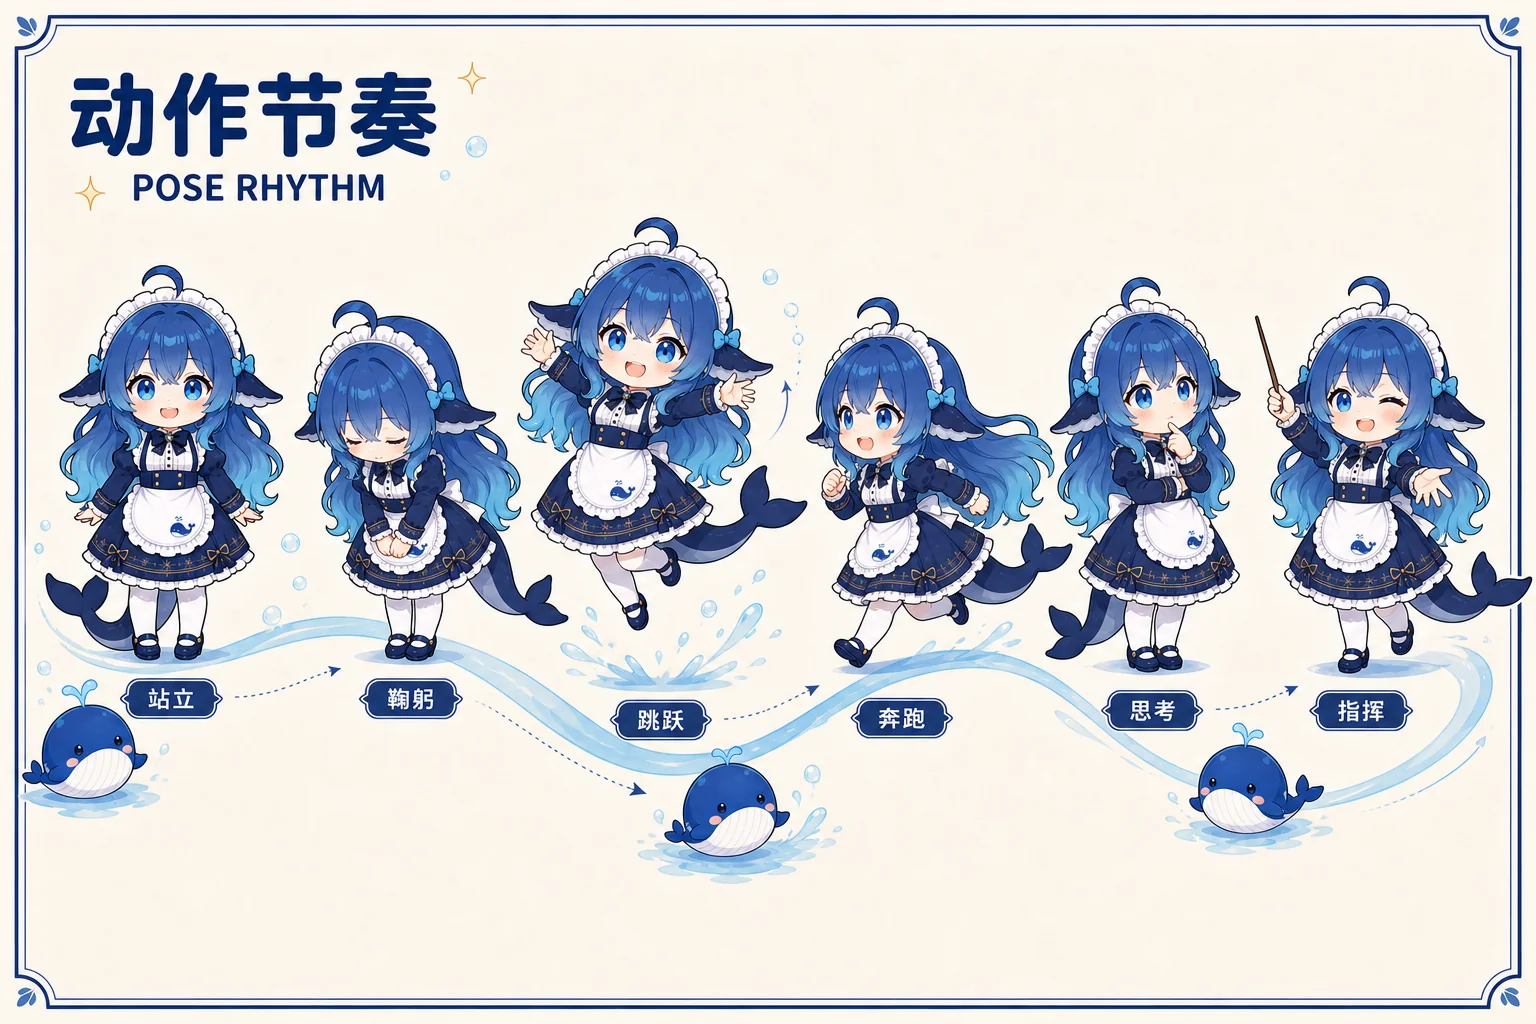
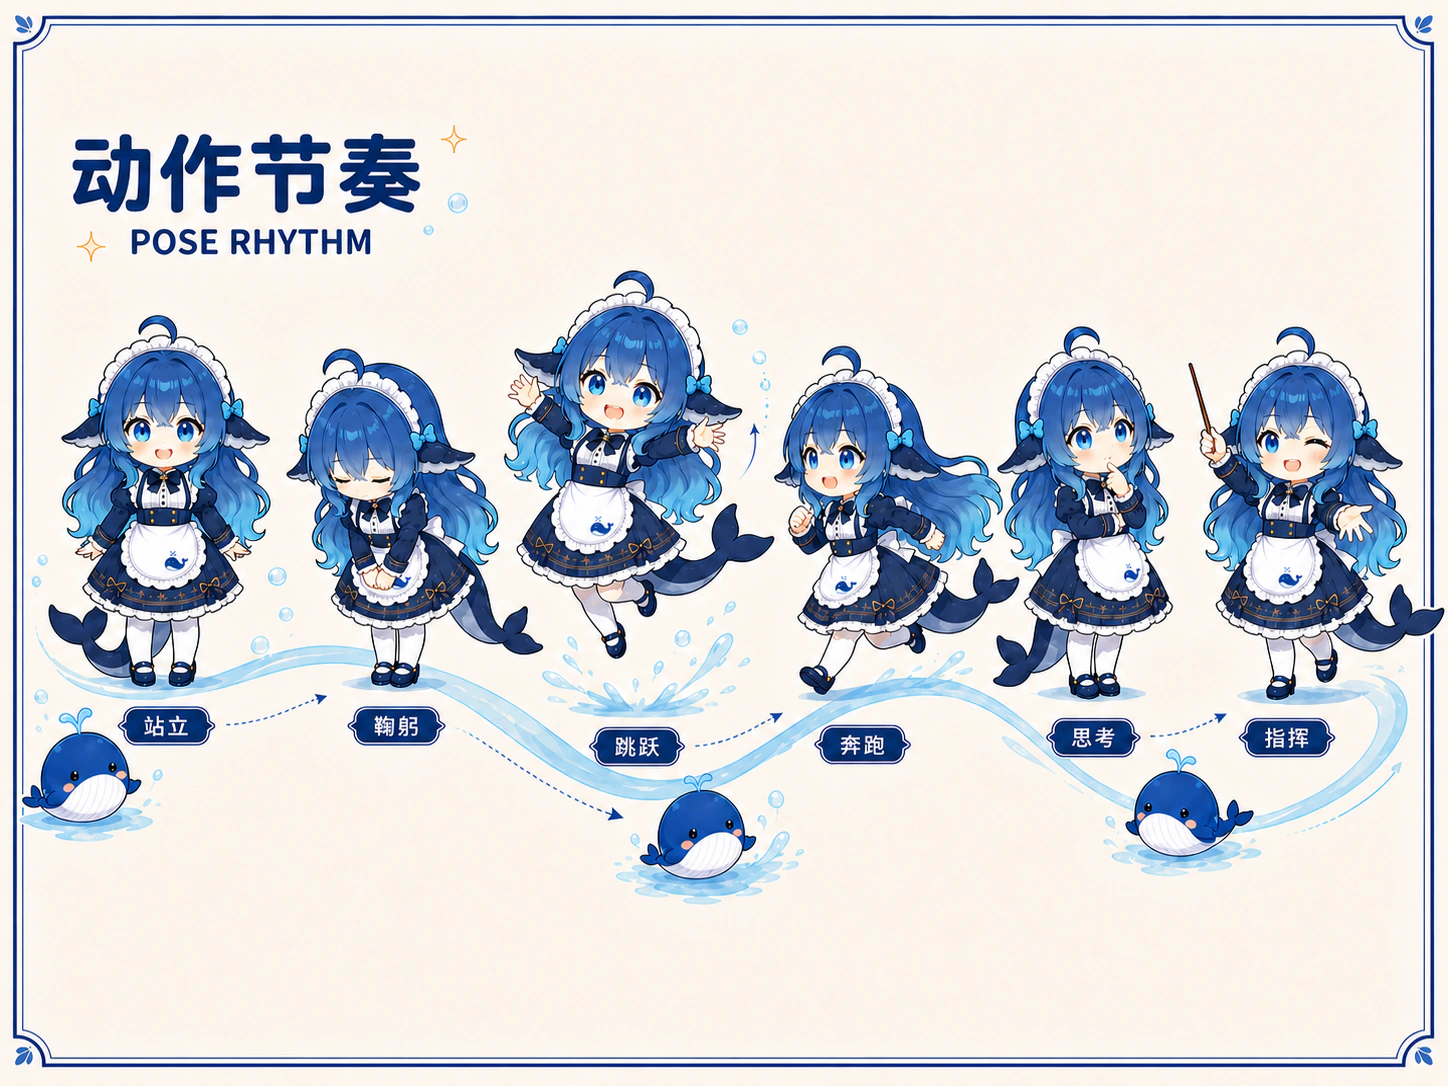
style(readme): add explicit br spacing tags and update pose reference asset
- insert explicit HTML br tags around dividers to ensure visible whitespace in GFM
- update pose guide reference asset

Changed region(s): [[0.0, 0.0, 1.0, 1.0]]

diff --git a/README.md b/README.md
@@ -16,9 +16,11 @@
   <a href="#-许可证说明"><img src="https://img.shields.io/badge/License-MIT_%7C_CC--BY--NC--SA_4.0-yellow.svg?style=flat-square" alt="License"></a>
 </p>
 
+<br>
 
 ---
 
+<br>
 
 ## 目录
 
@@ -38,9 +40,11 @@
 - [许可证说明](#-许可证说明)
 - [角色形象与二创著作权归属](#-角色形象与二创著作权归属)
 
+<br>
 
 ---
 
+<br>
 
 ## 📖 项目简介
 
@@ -56,9 +60,11 @@
 - 🛡 **双重质检防线**：结合确定性图像格式检查、骨骼关节点姿态中和测量（`measure-form.py`）与原分辨率视觉 QA 矩阵；
 - 🌐 **多供应商智能路由**：严格按 Codex 内置 ImageGen、OpenAI Images API (`gpt-image-2`)、Google Gemini Nano Banana (`gemini-3.1-flash-image`)、火山引擎 Seedream 的顺序生成与回退。
 
+<br>
 
 ---
 
+<br>
 
 ## 📢 特别声明与免责条款
 
@@ -66,9 +72,11 @@
 2. **商标与品牌归属**：项目中提及的 DeepSeek 及相关品牌名称归其各自所有者所有。
 3. **内容安全与伦理准则**：本项目生成的插画与漫画均应遵循健康、合规、积极的内容创作准则，严禁用于任何违法违规、侵犯第三方合法权益或违反各模型供应商使用政策的场景。
 
+<br>
 
 ---
 
+<br>
 
 ## 📇 鲸鱼娘角色设定卡
 
@@ -99,9 +107,11 @@
   </tr>
 </table>
 
+<br>
 
 ---
 
+<br>
 
 ## 📐 五种角色形态与比例规范
 
@@ -115,9 +125,11 @@
 | `chibi` | **2.5 头身** | `2.372 ~ 2.672` | **Q 版可爱形态**：躯干短小，手足更为圆润小巧，情绪表达夸张生动。适用于搞笑四格漫画与表情包。 |
 | `super-deformed` | **2.1 头身** | `1.931 ~ 2.231` | **极度压缩 SD 形态**：超大头部与极短四肢，视觉重心完全聚焦于面部与呆毛。适用于大情绪反转与高密度贴纸。 |
 
+<br>
 
 ---
 
+<br>
 
 ## 🎨 视觉作品画廊
 
@@ -163,9 +175,11 @@
   <img src="assets/readme/character-samples/whalechan-post-answer-delivered.webp" alt="Whale-chan answer delivered post" width="32%">
 </p>
 
+<br>
 
 ---
 
+<br>
 
 ### 多格喜剧漫画对照
 
@@ -192,9 +206,11 @@
 | **13** | <img src="assets/readme/comic-samples/13_text-05-bug-transparency-badge/whalechan-input-inconsistent-result-complaint.webp" alt="Inconsistent result source complaint" width="380"> | <img src="assets/readme/comic-samples/13_text-05-bug-transparency-badge/whalechan-comic-bug-transparency-badge.webp" alt="Whale-chan bug transparency badge comic" width="380"> | **Bug 透明度徽章**：将报错主动转化为“公开透明”的自豪战绩与盲盒体验。 |
 | **14** | <img src="assets/readme/comic-samples/14_wordle-self-play-morning/whalechan-input-wordle-self-play-chat.webp" alt="Wordle self-play source chat" width="380"> | <img src="assets/readme/comic-samples/14_wordle-self-play-morning/whalechan-comic-server-self-play.webp" alt="Whale-chan server self-play comic" width="380"> | **单机自弈博弈论**：后台空跑小游戏被解释为前沿强化学习算法前瞻性探索。 |
 
+<br>
 
 ---
 
+<br>
 
 ## 📦 核心智能体技能库
 
@@ -205,9 +221,11 @@
 | [`whalechan-image-character`](skills/whalechan-image-character/) | **角色立绘与主题插画生成**<br>专为生成高一致性、严格验证、角色身份锁定的鲸鱼娘单人/带道具/场景立绘与插画。 | • **标准化工作流**：Assignment 方案冻结 ➔ 确认清单与预算 ➔ 动态拼装 Prompt ➔ 多端调度<br>• **双重质检体系**：确定性图像格式检查、骨骼关节点拟合与原图视觉 QA 矩阵 |
 | [`whalechan-image-comic`](skills/whalechan-image-comic/) | **喜剧多格反转漫画生成**<br>将日常对话、技术讨论、报错日志或模型推理转化为 5 张富有自利机智人格的 1/2/4 格漫画。 | • **8 创意淘汰引擎**：锁定事实锚点，8 种语义偷换机制经无聊门禁与两两对决选出 Top 3<br>• **多格分镜语法**：支持 1 格/2 格/4 格，整组需覆盖 ≥2 种格数<br>• **视觉排版系统**：10 套蓝白气泡模板与去饱和抽象配角剪影 |
 
+<br>
 
 ---
 
+<br>
 
 ## 🚀 安装与环境配置
 
@@ -266,9 +284,11 @@ export ARK_API_KEY="..."
 > [!CAUTION]
 > 绝不要将真实的 API Key 提交至 Git 仓库、Prompt 文本、Assignment 任务卡或生成日志中。
 
+<br>
 
 ---
 
+<br>
 
 ## 💡 快速上手指南
 
@@ -298,9 +318,11 @@ export ARK_API_KEY="..."
 2. 喜剧引擎构建 8 种自利反转（如：“将其重新命名为极致存储清理服务” / “为公司腾出了 100GB 宝贵空间并索要米饭奖励”）；
 3. 决出 Top 3 机制并扩展为 5 张涵盖 1 格、2 格、4 格的漫画，最终交付至 `artifacts/whalechan-image-comic/<run-name>/`。
 
+<br>
 
 ---
 
+<br>
 
 ## 🛠 本地命令行工具链
 
@@ -327,9 +349,11 @@ python3 skills/whalechan-image-comic/scripts/compose-panels.py --layout top-bott
 python3 skills/whalechan-image-comic/scripts/generate-nanobanana.py --request request.json --output output.png
 ```
 
+<br>
 
 ---
 
+<br>
 
 ## 🗺 项目路线图
 
@@ -344,9 +368,11 @@ python3 skills/whalechan-image-comic/scripts/generate-nanobanana.py --request re
 - [ ] **自动一致性评测模型**：构建基于 Vision-LLM 的全自动角色一致性打分与回归测试流水线
 - [ ] **更多 Agent 适配**：拓展支持 LangChain, AutoGen, CrewAI, Dify 等工作流生态
 
+<br>
 
 ---
 
+<br>
 
 ## 🤝 贡献指南
 
@@ -358,9 +384,11 @@ python3 skills/whalechan-image-comic/scripts/generate-nanobanana.py --request re
 > [!IMPORTANT]
 > **安全与隐私守则**：在提交任何代码、示例或日志前，请务必做好脱敏检查，**切勿提交任何真实的 API Key、私密聊天记录、未经授权的人物肖像或未获许可的第三方美术资产**。
 
+<br>
 
 ---
 
+<br>
 
 ## 📄 许可证说明
 
@@ -369,9 +397,11 @@ python3 skills/whalechan-image-comic/scripts/generate-nanobanana.py --request re
 - **开源代码与工具链**：本项目中的所有 Python 脚本、验证工具、测试用例与工程化代码均采用 [MIT License](LICENSE) 开源；
 - **规范文档与 Skills 模版**：所有角色规范白皮书（Markdown）、提示词模板、分镜规则与 Skill 配置采用 [CC-BY-NC-SA 4.0 国际许可协议](https://creativecommons.org/licenses/by-nc-sa/4.0/)。
 
+<br>
 
 ---
 
+<br>
 
 ## 🎨 角色形象与二创著作权归属
 
